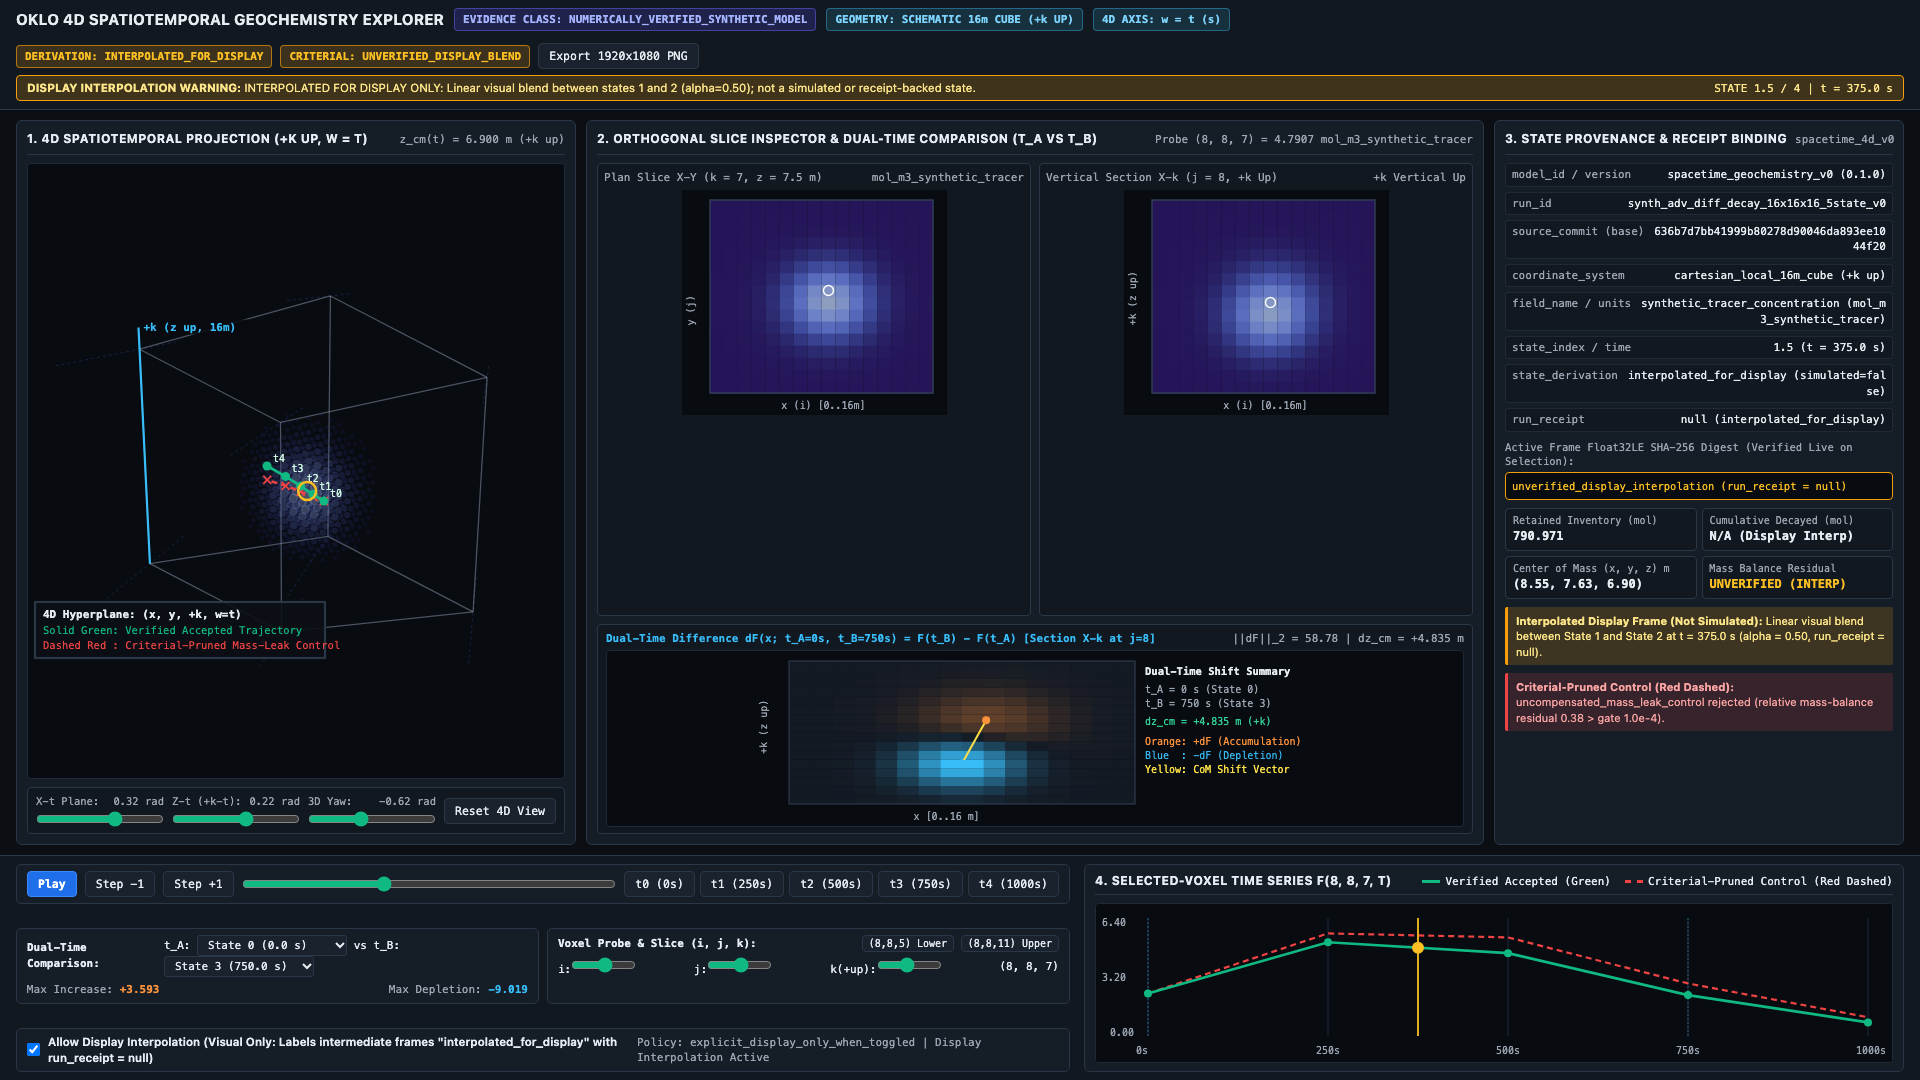
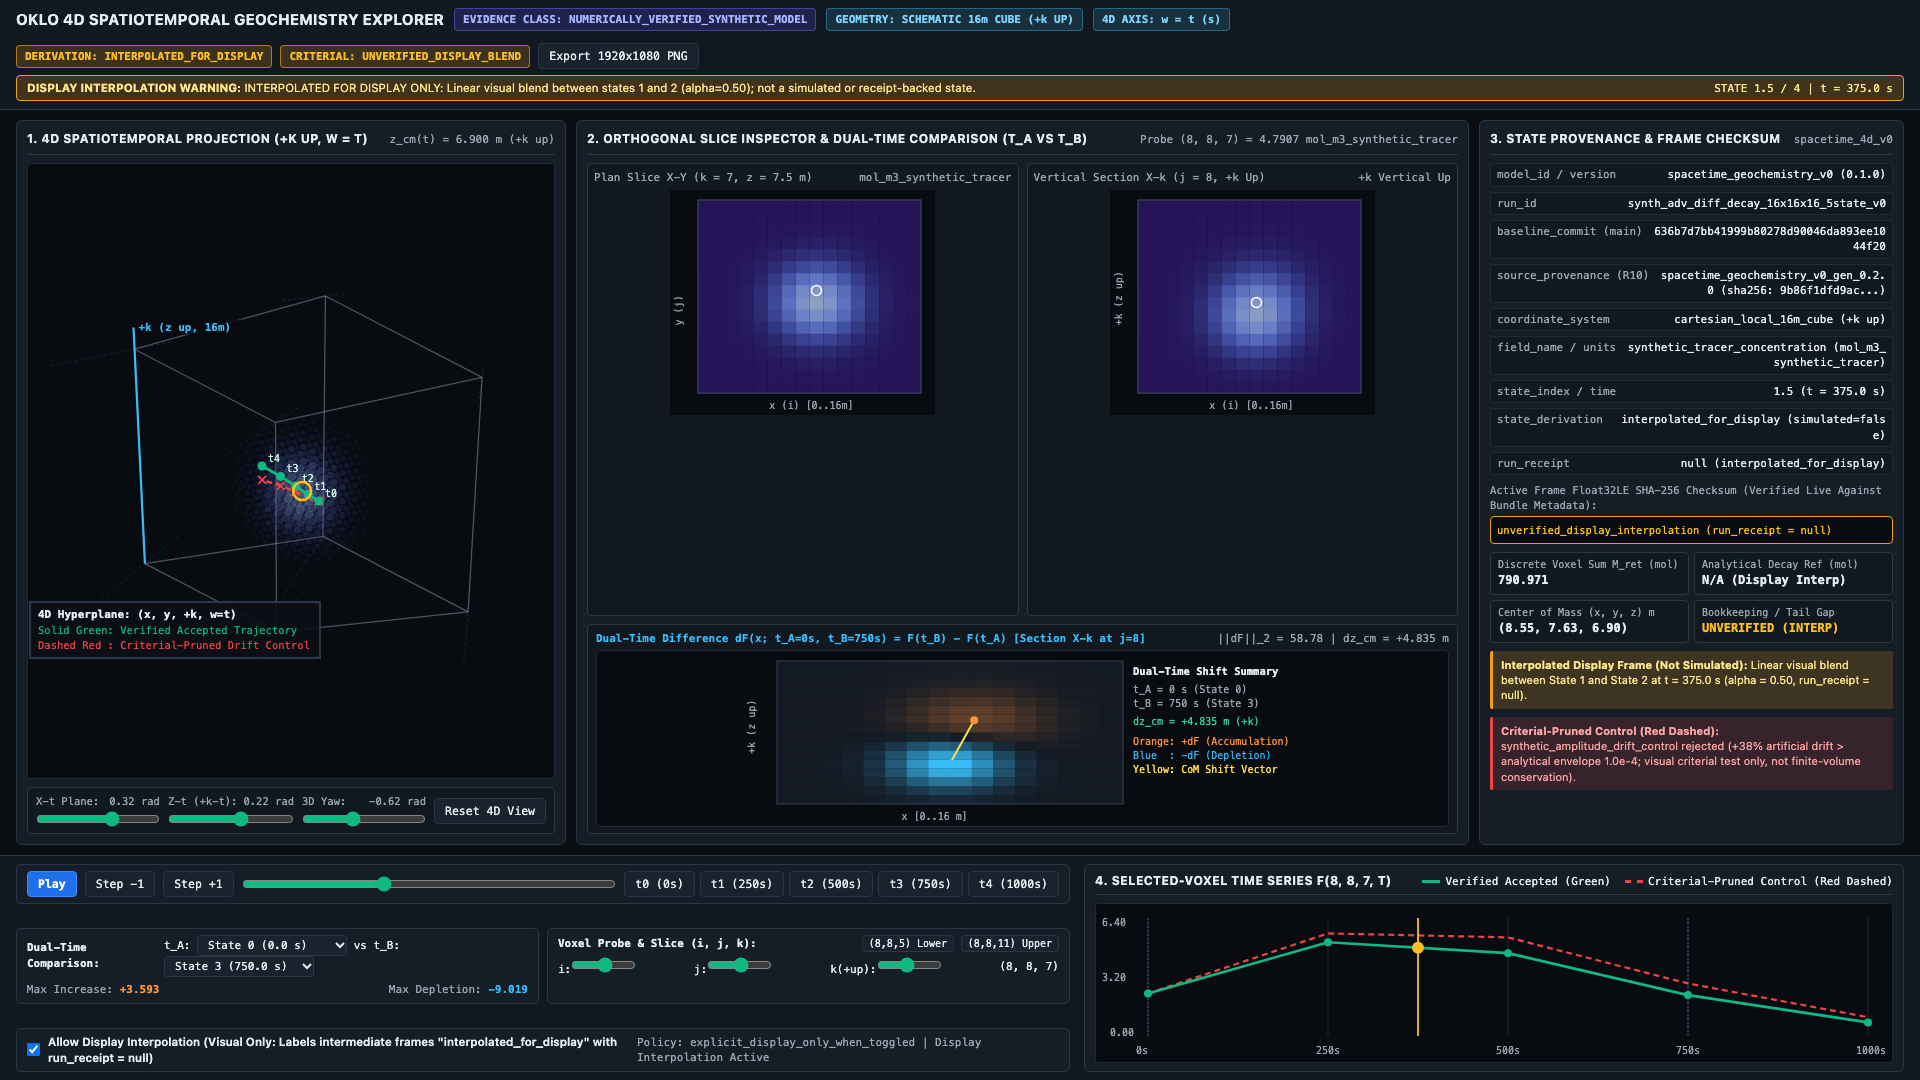
docs(r10): bind verification receipt and screenshots to tested_source_commit 919c6f28fe6f1235db1c07c4ab037e261cd5d0ef

diff --git a/receipts/spacetime_geochemistry_v0_2026-10-20.md b/receipts/spacetime_geochemistry_v0_2026-10-20.md
@@ -4,11 +4,13 @@
 - **Date:** 2026-10-20
 - **Requirement:** R10 (`spacetime_geochemistry_v0` - Stage 0 4D Data Contract and Stage 1 Synthetic Temporal Renderer Proof)
 - **Branch:** `spacetime-geochemistry/v0-slice`
-- **Baseline Commit (`main`):** `636b7d7bb41999b80278d90046da893ee1044f20`
-- **Tested Source Commit:** `36311753fbd818868f542755ceda844078732741`
+- **Baseline Commit (`main` parent):** `636b7d7bb41999b80278d90046da893ee1044f20`
[1 lines of base64/hex data omitted]
+- **Tested Source Commit (`tested_source_commit`):** `919c6f28fe6f1235db1c07c4ab037e261cd5d0ef`
 - **Worktree Clean at Test:** `true` (`worktree_clean_at_test: true`)
-- **Commit Provenance Separation:** All Stage 0/1 validators, Node.js semantic tests, Rust conformance checks, text audits, and `1920x1080` headless browser screenshots were executed against the clean `tested_source_commit` (`36311753fbd818868f542755ceda844078732741`). This receipt and the companion JSON receipt are committed in the immediately following `receipt_head` commit without modifying any tested source or data files. `tested_source_commit` and `receipt_head` are distinct and never treated as interchangeable.
-- **Scientific Status Disclaimer:** Passing viewer and data-contract tests establishes rendering and data-contract correctness only, not geological validity, radiation transport accuracy, or empirical calibration.
+- **Execution Context:** Local workstation execution (`execution_context: "local_workstation"`); GitHub Actions CI is not configured in this repository (`ci_pipeline_status: "not_configured_in_github_actions"`).
+- **Commit Provenance Separation:** `baseline_commit` (`636b7d7bb41999b80278d90046da893ee1044f20`) records the `main` branch commit from which `spacetime-geochemistry/v0-slice` branched and is never used to claim that `636b7d7...` generated the R10 bundle. All Stage 0/1 validators, Node.js semantic tests, Rust conformance checks, text audits, and `1920x1080` headless browser screenshots were executed against the clean `tested_source_commit` (`919c6f28fe6f1235db1c07c4ab037e261cd5d0ef`). This receipt and the companion JSON receipt are committed in the immediately following `receipt_head` commit without modifying any tested source or data files. `baseline_commit`, `tested_source_commit`, and `receipt_head` are distinct and never treated as interchangeable.
+- **Scientific Status and Bookkeeping Disclaimer:** Passing viewer and data-contract tests establishes rendering and data-contract correctness only, not geological validity, radiation transport accuracy, or empirical calibration. In Stage 1 (`prescribed_analytically`), `analytical_bookkeeping_ledger` records illustrative analytical decay bookkeeping (`closes_by_algebraic_definition: true`, `is_finite_volume_conservation_test: false`) together with the non-zero discrete quadrature/boundary tail gap (`relative_quadrature_and_tail_gap`). Independent finite-volume PDE mass conservation is a Stage 2 gate requirement.
 - **Overall Disposition:** `PASS`
 
 ---
@@ -20,28 +22,29 @@
 - **Node.js Runtime:** `v26.11.1`
 - **Rust Toolchain:** `rustc 1.97.1 (8bab26f4f 2026-07-14)` / `cargo 1.97.1 (c980f4866 2026-06-30)`
 - **Headless Browser:** `Google Chrome 155.0.8059.85` (`--headless --window-size=1920,1080 --force-device-scale-factor=1`)
+- **CI Status:** Local workstation verification only (`not_configured_in_github_actions`)
 
 ---
 
 ## 2. Stage 0: 4D Spatiotemporal Data Contract Verification
 
 **Command:** `python3 scripts/validate_spacetime_4d.py`
-**Result:** `PASS` (1 primary bundle + 12/12 negative-control rejection checks passed, exit code 0)
+**Result:** `PASS` (1 primary bundle + 15/15 negative-control rejection checks passed, exit code 0)
 
 ### 2.1 Verified Discrete Time States (`data/spacetime/synthetic_tracer_pulse_4d_v0.json`)
 
-| State ID Anchor | `state_index` | `simulation_time` (`s`) | `state_derivation` | `criterial_status` | Center of Mass $(x, y, z)\text{ m}$ | Peak Value (`mol/m^3`) | `sha256_f32_le` (IEEE-754 Little-Endian Float32) |
-| :--- | :---: | :---: | :---: | :---: | :---: | :---: | :--- |
[5 lines of base64/hex data omitted]
+| State ID Anchor | `state_index` | `simulation_time` (`s`) | `state_derivation` | `criterial_status` | Center of Mass $(x, y, z)\text{ m}$ | Peak Value (`mol/m^3`) | Quadrature / Tail Gap (`relative_quadrature_and_tail_gap`) | `sha256_f32_le` (IEEE-754 Little-Endian Float32) |
+| :--- | :---: | :---: | :---: | :---: | :---: | :---: | :---: | :--- |
[5 lines of base64/hex data omitted]
 
-### 2.2 Stage 0 Negative-Control Rejection Checks
+### 2.2 Stage 0 Negative-Control Rejection Checks (`15/15 PASS`)
 
 1. Reject non-monotonic `simulation_time` ($t_2 = 200.0 \le t_1 = 250.0$): `PASS`
-2. Reject empty/whitespace `temporal_axis.time_units`: `PASS`
+2. Reject non-`"s"` `temporal_axis.time_units` (`"minutes" != "s"`): `PASS`
 3. Reject invalid `fourth_dimension_symbol != "t"`: `PASS`
 4. Reject voxel array length mismatch (`4095 != 4096`): `PASS`
 5. Reject non-finite voxel value (`NaN` at voxel 128): `PASS`
@@ -52,6 +55,9 @@
 10. Reject discrete stored state with `run_receipt = null`: `PASS`
 11. Reject mismatched `temporal_axis.time_bounds` vs state simulation times: `PASS`
 12. Reject inverted `spatial_frame.domain_bounds_m` (`min >= max`): `PASS`
+13. Reject inconsistent time step interval vs `temporal_axis.temporal_resolution_s` ($\Delta t = 350.0 \ne 250.0\text{ s}$): `PASS`
+14. Reject false Stage 1 `is_finite_volume_conservation_test = true` claim: `PASS`
+15. Reject `source_provenance` conflating `generator_version` with `baseline_commit`: `PASS`
 
 ---
 
@@ -60,17 +66,17 @@
 **Command:** `node tests/test_spacetime_4d_v0.js`
 **Result:** `PASS` (`11/11` passed, `0` failed, exit code 0)
 
-- **Test 1:** Temporal axis monotonicity, `+k` up-axis frame, and embedded bundle bit-parity -> `PASS`
-- **Test 2:** `16x16x16` voxel dimensions, finite values, non-zero variance, and ledger closure (`< 1e-12`) -> `PASS`
-- **Test 3:** Bit-exact `Float32LE` SHA-256 digests verified against Node crypto and mutually distinct -> `PASS`
+- **Test 1:** Fixed-step seconds time grid (`time_units: "s"`, uniform $\Delta t = 250.0\text{ s}$), separated `baseline_commit` vs `source_provenance`, `+k` up-axis frame, and embedded bundle bit-parity -> `PASS`
+- **Test 2:** `16x16x16` voxel dimensions, finite values, non-zero variance, and illustrative analytical bookkeeping (`closes_by_algebraic_definition: true`, `is_finite_volume_conservation_test: false`, non-zero discrete quadrature/boundary tail gap) -> `PASS`
+- **Test 3:** Per-frame `Float32LE` SHA-256 checksums verified against Node crypto, independently pinned test manifest (`PINNED_EXPECTED_FRAME_DIGESTS_F32_LE`), and external receipt files (`spacetime_geochemistry_v0_verification.json` and `spacetime_geochemistry_v0_2026-10-20.md#state_k`) -> `PASS`
 - **Test 4:** Changing time state mutates underlying `Float32Array` and shifts $z_{\mathrm{cm}}$ monotonically along `+k` -> `PASS`
 - **Test 5:** Dual-time comparator $\Delta F(\mathbf{x}; t_A, t_B)$ zero-identity at $t_A = t_B$ and dipolar shift at $t_A \ne t_B$ -> `PASS`
-- **Test 6:** Selected-voxel time series and criterial separation (`verified_accepted` vs `criterial_pruned`) -> `PASS`
+- **Test 6:** Selected-voxel time series and criterial separation (`verified_accepted` vs `criterial_pruned` synthetic amplitude drift control) -> `PASS`
 - **Test 7:** Missing or out-of-range frames and unauthorized fractional steps fail closed -> `PASS`
-- **Test 8:** Display interpolation marks frame `"interpolated_for_display"` with `run_receipt: null` -> `PASS`
-- **Test 9:** `verifyBundleIntegrity` rejects non-monotonic time, `NaN`, bad SHA-256, calibrated claims, null `run_receipt`, bad `time_bounds`, and bad `domain_bounds_m` -> `PASS`
-- **Test 10:** 4D projection (`+k` up, $w = t$), orthogonal slices, offline HTML, and zero em/en-dashes -> `PASS`
-- **Test 11:** Interactive DOM harness (`?interp=1&state=1.5` policy/event banners, `Step -1`/`+1`, fail-closed invalid URL params, and PNG export header) -> `PASS`
+- **Test 8:** Display interpolation marks frame `"interpolated_for_display"` with `run_receipt: null` on fixed-step grids -> `PASS`
+- **Test 9:** `verifyBundleIntegrity` rejects non-monotonic/non-uniform time steps, non-`"s"` `time_units`, `NaN`, bad SHA-256, calibrated claims, null `run_receipt`, bad `time_bounds`, bad `domain_bounds_m`, false Stage 1 finite-volume conservation claims, and conflated provenance -> `PASS`
+- **Test 10:** 4D projection (`+k` up, $w = t$, extreme rotation angles), orthogonal slices, offline HTML, and zero em/en-dashes -> `PASS`
+- **Test 11:** Interactive DOM harness (`?interp=1&state=1.5` policy/event banners, separated provenance readout, analytical bookkeeping readout, `Step -1`/`+1`, fail-closed invalid URL params, and PNG export header) -> `PASS`
 
 ---
 
@@ -78,10 +84,10 @@
 
 | View Description | Path | Resolution | SHA-256 Digest | Status |
 | :--- | :--- | :---: | :--- | :---: |
[8 lines of base64/hex data omitted]
 
 ---
 
